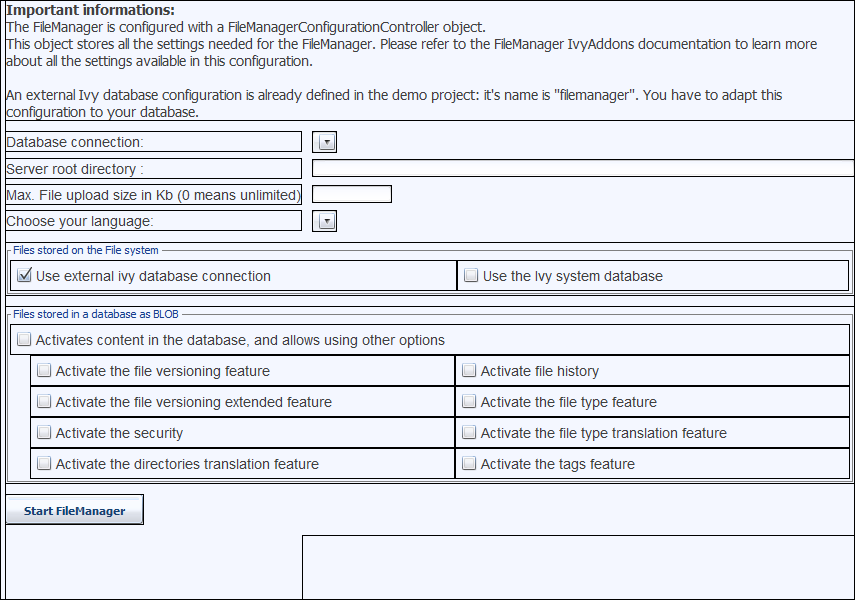
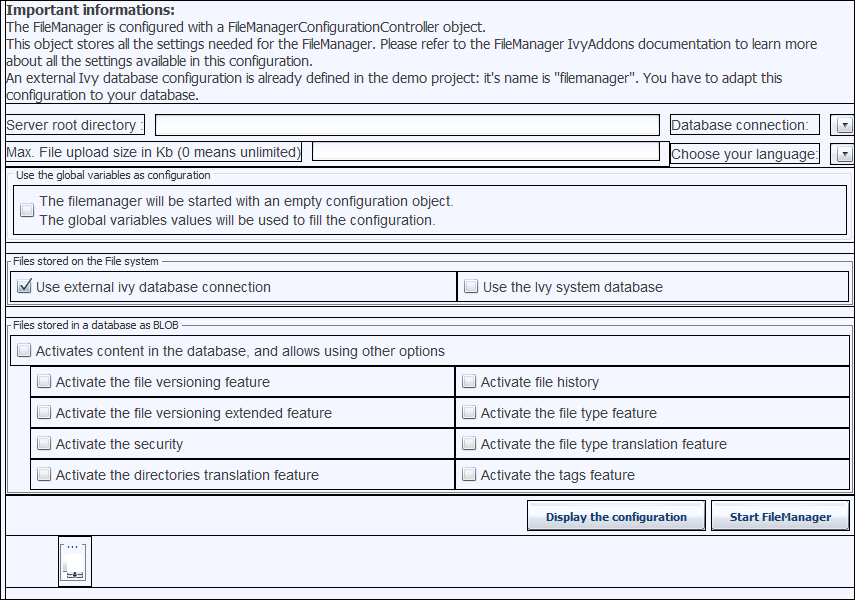
StartFileManager Panel Demo: new Infos displayed about the configuration object used to start the filemanager Reviewed by Nobody
Former-commit-id: 23c831cf6256303c20f81c379ae3598212486907

Changed region(s): [[0.0, 0.12, 1.0, 0.99]]

diff --git a/IvyDemos/src_rd/ch/ivyteam/ivy/demo/filemanager/StartFileManager/StartFileManagerPanel.java b/IvyDemos/src_rd/ch/ivyteam/ivy/demo/filemanager/StartFileManager/StartFileManagerPanel.java
@@ -15,6 +15,10 @@ import ch.ivyteam.ivy.richdialog.widgets.displays.RTabbedDisplay;
 import ch.ivyteam.ivy.richdialog.widgets.components.RCheckBox;
 import ch.ivyteam.ivy.richdialog.widgets.components.RComboBox;
 import ch.ivyteam.ivy.richdialog.widgets.containers.RFlowLayoutPane;
+import ch.ivyteam.ivy.addons.filemanager.DesktopHandler.DesktopHandlerPanel;
+import ch.ivyteam.ivy.richdialog.exec.panel.EmbeddedRichDialog;
+import ch.ivyteam.ivy.richdialog.exec.panel.RichDialogPanelFactory;
+import com.ulcjava.base.application.ULCContainer;
 
 /**
  * <p>StartFileManagerPanel is a rich dialog panel implementation.
@@ -58,6 +62,7 @@ private RCheckBox globalVariablesCheckBox = null;
 private RFlowLayoutPane FlowLayoutPane = null;
 private RButton displayButton = null;
 private RGridBagLayoutPane sizeGridBagLayoutPane = null;
+private @EmbeddedRichDialog(DesktopHandlerPanel.class) ULCContainer desktopHandlerPanel = null;
 /**
    * Create a new instance of StartFileManagerPanel
    */
@@ -105,6 +110,7 @@ private RGridBagLayoutPane getGridBagLayoutPane1() {
 		GridBagLayoutPane1.add(getGlobalVariableConfigGridBagLayoutPane(), new com.ulcjava.base.application.GridBagConstraints(0, 5, 4, 1, -1, -1, com.ulcjava.base.application.GridBagConstraints.CENTER, com.ulcjava.base.application.GridBagConstraints.NONE, new com.ulcjava.base.application.util.Insets(0,0,0,0), 0, 0));
 		GridBagLayoutPane1.add(getFlowLayoutPane(), new com.ulcjava.base.application.GridBagConstraints(0, 8, 4, 1, -1, -1, com.ulcjava.base.application.GridBagConstraints.CENTER, com.ulcjava.base.application.GridBagConstraints.NONE, new com.ulcjava.base.application.util.Insets(0,0,0,0), 0, 0));
 		GridBagLayoutPane1.add(getSizeGridBagLayoutPane(), new com.ulcjava.base.application.GridBagConstraints(0, 4, 2, 1, -1, -1, com.ulcjava.base.application.GridBagConstraints.CENTER, com.ulcjava.base.application.GridBagConstraints.NONE, new com.ulcjava.base.application.util.Insets(0,0,0,0), 0, 0));
+		GridBagLayoutPane1.add(getDesktopHandlerPanel(), new com.ulcjava.base.application.GridBagConstraints(0, 9, 1, 1, -1, -1, com.ulcjava.base.application.GridBagConstraints.CENTER, com.ulcjava.base.application.GridBagConstraints.NONE, new com.ulcjava.base.application.util.Insets(0,0,0,0), 0, 0));
 	}
 	return GridBagLayoutPane1;
 }
@@ -543,5 +549,20 @@ private RGridBagLayoutPane getSizeGridBagLayoutPane() {
 		sizeGridBagLayoutPane.add(getMaxFileSizeTextField(), new com.ulcjava.base.application.GridBagConstraints(1, 0, 1, 1, -1, -1, com.ulcjava.base.application.GridBagConstraints.CENTER, com.ulcjava.base.application.GridBagConstraints.NONE, new com.ulcjava.base.application.util.Insets(0,0,0,0), 0, 0));
 	}
 	return sizeGridBagLayoutPane;
+}
+
+/**
+ * This method initializes desktopHandlerPanel, an embedded RichDialog.
+ * The created object might have a different type than the declared
+ * class due to overriding.
+ * @returns com.ulcjava.base.application.ULCContainer 
+ */
+private ULCContainer getDesktopHandlerPanel() {
+	if (desktopHandlerPanel == null) {
+		desktopHandlerPanel = RichDialogPanelFactory
+				.create(DesktopHandlerPanel.class);
+		desktopHandlerPanel.setName("desktopHandlerPanel");
+	}
+	return desktopHandlerPanel;
 }
 }  //  @jve:decl-index=0:visual-constraint="10,10"
